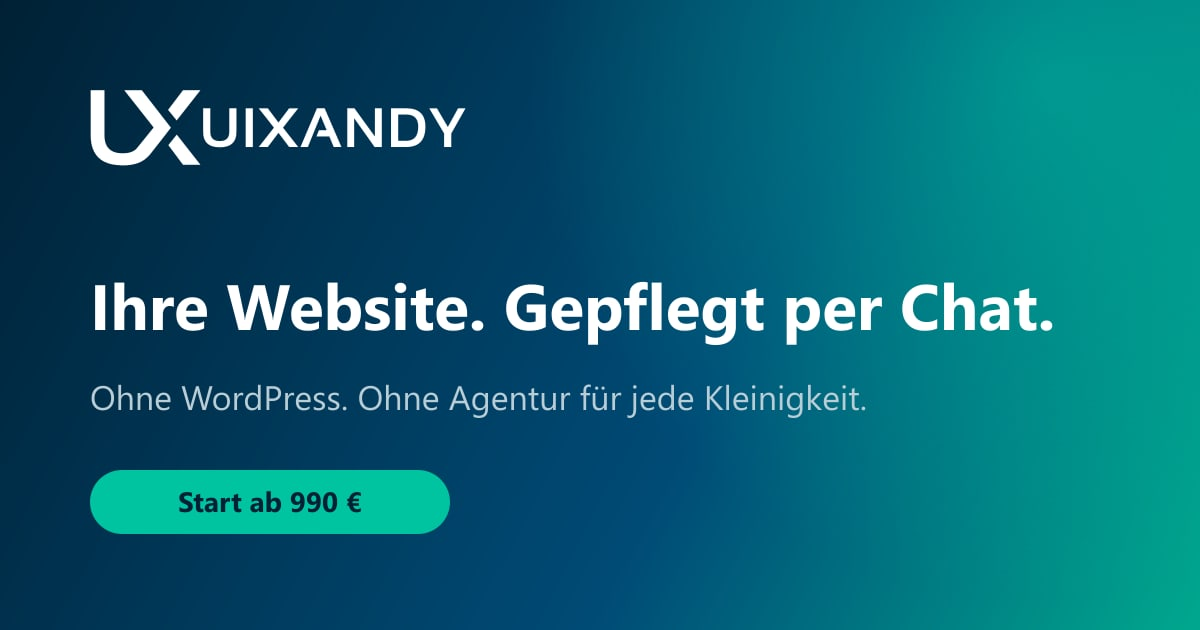
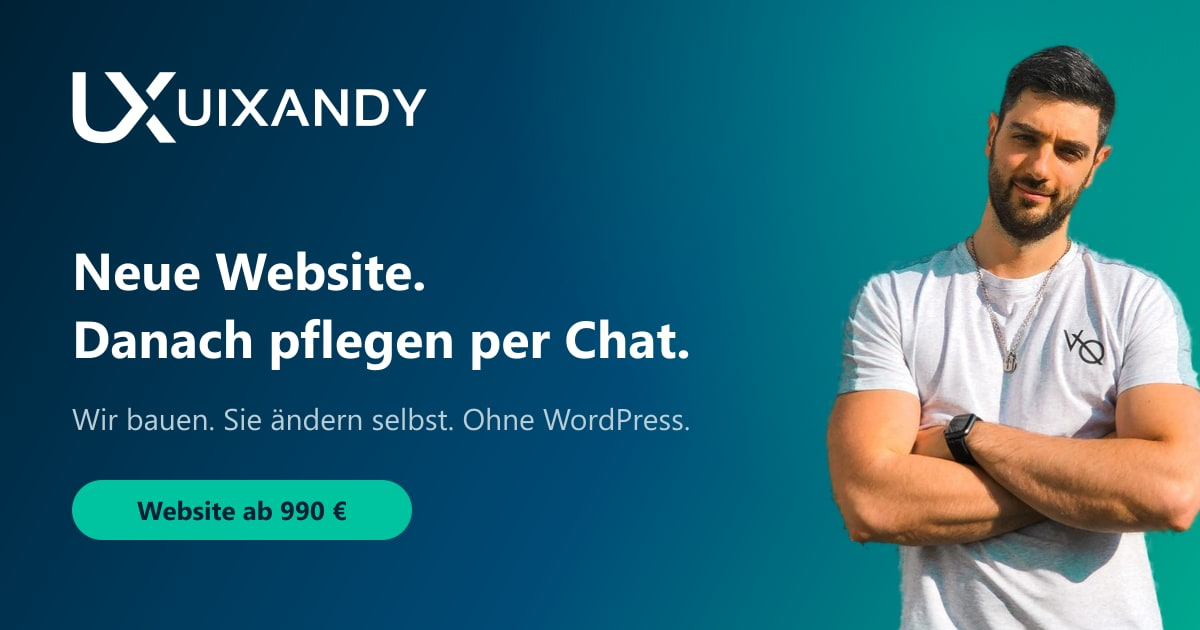
Lead OG and homepage with new website, not maintenance.
Share previews now say we build first, then chat care, with Andy on the OG image.

Changed region(s): [[0.0617, 0.0603, 1.0, 1.0], [0.0617, 0.7238, 0.4008, 0.8746], [0.0617, 0.0905, 0.4008, 0.2714]]

diff --git a/AGENTS.md b/AGENTS.md
@@ -35,7 +35,7 @@ GitHub account: `gh auth switch --user uixandy` before push, switch back to `wow
 | Gradient | 120deg navy → teal (`--ux-gradient`) |
 | Fonts | Plus Jakarta Sans (display), IBM Plex Sans (body) via `@fontsource` (`src/styles/fonts.css`). Not Outfit (wowdesign). |
 | Logo | `src/components/Logo.astro` (official paths). No Lottie. CSS arm animation only |
-| Claim | Ihre Website. Gepflegt per Chat mit Ihrer KI. |
+| Claim | Ihre neue Website. Danach pflegen Sie sie per Chat. |
 | Primary CTA | Website-Check → `/website-check/` |
 | Secondary CTA | 30 Min. Gespräch → `site.json > booking.calUrl` |
 | Voice | German, **Sie**, plain language, no jargon (no "MCP", "Git", "Repo" in public copy) |
